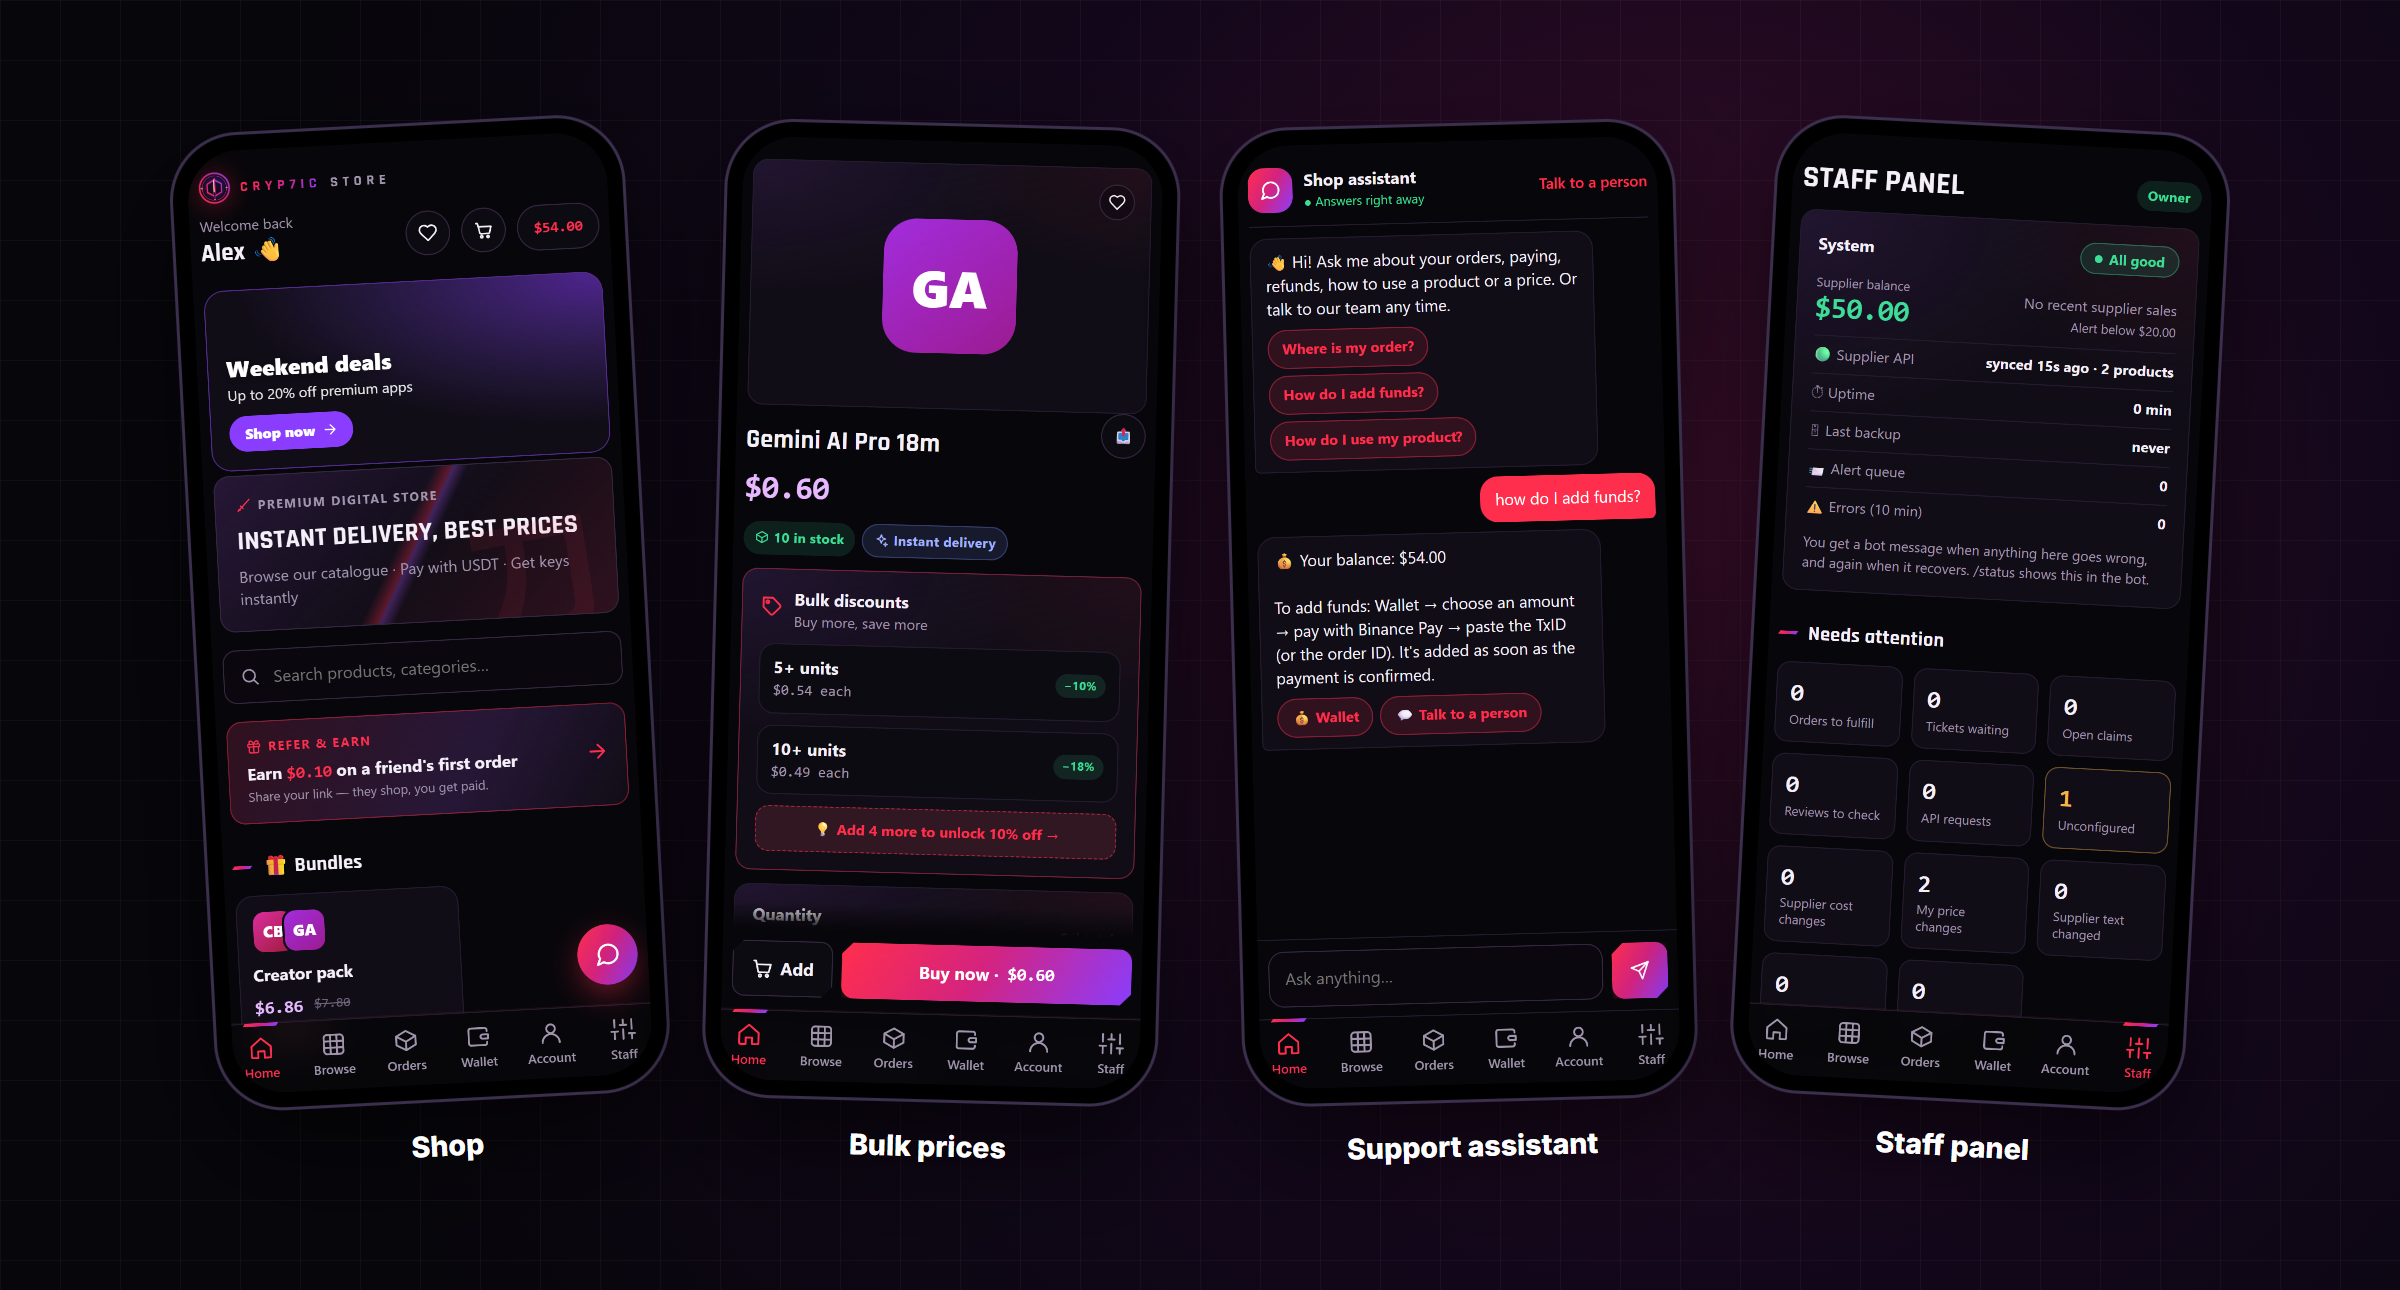
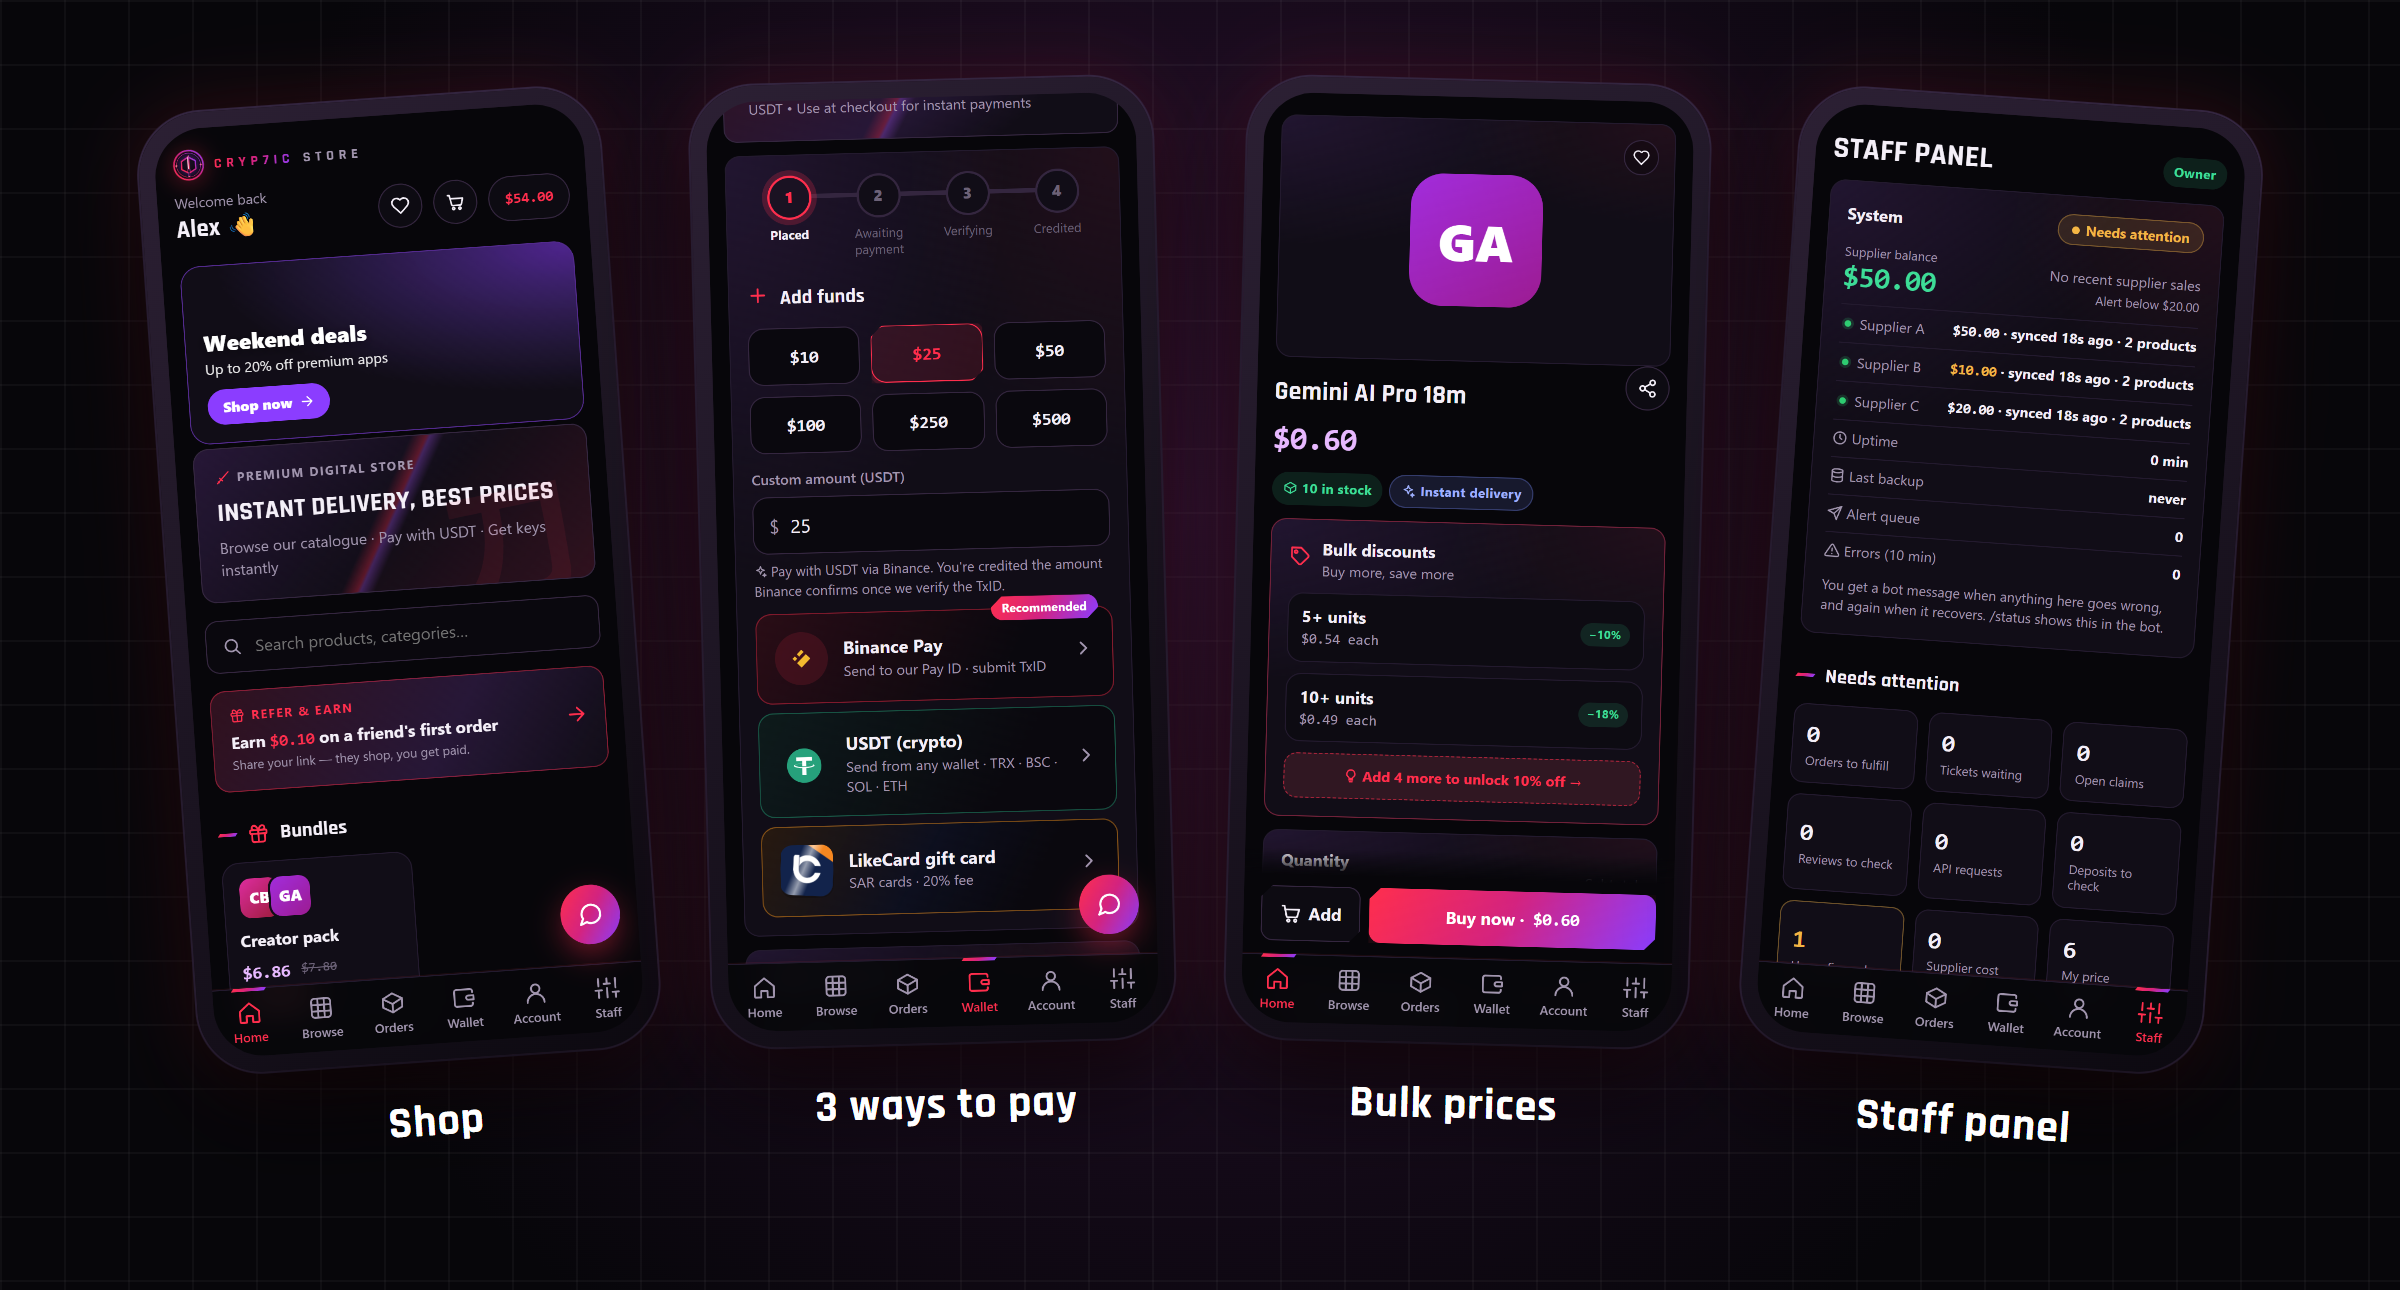
Showcase: three ways to pay, Arabic AI translations, SEO, TikTok posts, staff panel in the app, plans; fresh screenshots (sample data)

Changed region(s): [[0.0312, 0.062, 0.9375, 0.8992], [0.1562, 0.8372, 0.2188, 0.8992], [0.4062, 0.031, 0.4375, 0.062]]

diff --git a/README.md b/README.md
@@ -9,21 +9,21 @@
 
 <p align="center">
   <img alt="Telegram bot" src="https://img.shields.io/badge/Telegram-bot_+_Mini_App-26A5E4?logo=telegram&logoColor=white">
-  <img alt="Binance Pay" src="https://img.shields.io/badge/Binance_Pay-USDT-F0B90B?logo=binance&logoColor=white">
+  <img alt="Payments" src="https://img.shields.io/badge/pay-Binance_Pay_·_USDT_·_gift_cards-F0B90B?logo=binance&logoColor=white">
   <img alt="Android" src="https://img.shields.io/badge/Android-Flutter_app-02569B?logo=flutter&logoColor=white">
-  <img alt="Tests" src="https://img.shields.io/badge/tests-1600%2B_checks-3ddc97">
+  <img alt="Tests" src="https://img.shields.io/badge/tests-2150%2B_checks-3ddc97">
   <img alt="Languages" src="https://img.shields.io/badge/i18n-English_%7C_Arabic-c9a7ff">
 </p>
 
 **Cryp7ic Store** is a production platform for selling digital subscriptions and keys with instant,
 automatic delivery. It runs as a Telegram bot, a Telegram Mini App, a website and an Android app,
-all on one back end, with a Binance Pay wallet built in.
+all on one back end, with a wallet that takes Binance Pay, USDT and gift cards.
 
 **This repo is a showcase.** The source is private. The platform is available to businesses as a
 white-label store.
 
 <p align="center">
-  <img src="images/showcase.png" alt="Shop, bulk prices, support assistant and staff panel" width="100%">
+  <img src="images/showcase.png" alt="Shop, three ways to pay, bulk prices and the staff panel" width="100%">
 </p>
 
 ---
@@ -34,10 +34,14 @@ Sell digital products under **your own brand** without building anything.
 
 - 🤖 **Your own Telegram bot store** on your own subdomain, with your name, logo and prices
 - 📦 **Ready catalogue** from connected suppliers, delivered automatically to your customers
-- 💰 **Wallet and Binance Pay (USDT)** built in, with every payment verified
-- 🛠 **Staff panel** for orders, stock, tickets and broadcasts
-- 🌍 **English and Arabic** out of the box
+- 💰 **Wallet with three ways to pay**: Binance Pay, USDT on TRC20 / BEP20 / Solana / Ethereum, and gift cards — every payment verified
+- 🛠 **Staff panel** on the web and in the Android app, for orders, stock, tickets and broadcasts
+- 🌍 **English and Arabic**, with product texts translated to Arabic automatically
+- 📈 **Found on Google and TikTok**: product pages, Google Shopping feed, and auto-made TikTok posts
 - 🔌 **Reseller REST API with webhooks** if you'd rather plug into your own system
+
+Plans decide which features each store gets (own products, the shared catalogue, bundles, posts, ads,
+the assistant, AI translations, USDT, SEO & Google, TikTok), so you can start small and grow.
 
 <p align="center">
   <a href="https://t.me/EXModder"><b>Message @EXModder on Telegram to get started →</b></a><br>
@@ -51,20 +55,38 @@ Sell digital products under **your own brand** without building anything.
 | | |
 |---|---|
 | ⚡ **Delivery** | Codes delivered from stock or supplier APIs in seconds, with automatic refunds when anything fails |
-| 💰 **Wallet** | Binance Pay deposits verified through the Binance API, a full ledger, referrals and VIP levels |
-| 🛍 **Shop** | Categories, search, bulk-price tiers, bundles, flash deals and coupons |
+| 💰 **Wallet** | Binance Pay, USDT deposit addresses on four networks (matched automatically, confirmed on-chain) and gift cards; a full ledger, referrals and VIP cashback levels |
+| 🛍 **Shop** | Categories, brand pages, search, bulk-price tiers, bundles, flash deals, pinned products and coupons |
+| 🌍 **Two languages** | Every screen in English and Arabic; product names and descriptions translated to Arabic by AI, checked before use, and editable by staff |
 | 💬 **Support** | A built-in English/Arabic assistant that answers from the customer's own orders, plus tickets and warranty claims |
-| 📣 **Marketing** | Post composer with templates, targeted broadcasts, welcome and win-back offers |
-| 🔔 **Alerts** | Back-in-stock, price drops and new products, sent to customers and channels |
-| 🛡 **Operations** | Staff roles, audit log, health monitoring, daily backups with weekly restore drills |
+| 📣 **Marketing** | Post composer with templates, scheduled announcements, targeted broadcasts, welcome and win-back offers |
+| 🎵 **TikTok** | Photo posts made by the shop in its own look: a hook slide, one slide per product with its price, a call to action; AI writes the caption and hashtags |
+| 🔎 **SEO** | Public product and brand pages with structured data, sitemap, Google Shopping feed, IndexNow, Search Console and a weekly SEO report |
+| 🔔 **Alerts** | Back-in-stock, price drops and new products for customers and channels; new-customer alerts for staff |
+| 📱 **Android app** | The full shop, plus the staff panel behind the phone's fingerprint and a sign-in confirmation |
+| 🛡 **Security** | Staff sign-ins from the web or the app confirmed in Telegram (or by email), roles, audit log, suspicious-activity alerts |
+| 🧰 **Operations** | Health monitoring, daily backups with weekly restore drills, 2,150+ automated checks |
 
 <p align="center">
-  <img src="images/screens/home.png" width="16%" alt="Home">
-  <img src="images/screens/product.png" width="16%" alt="Product">
-  <img src="images/screens/bundle.png" width="16%" alt="Bundle">
-  <img src="images/screens/chat.png" width="16%" alt="Assistant">
-  <img src="images/screens/composer.png" width="16%" alt="Post composer">
-  <img src="images/screens/staff.png" width="16%" alt="Staff panel">
+  <img src="images/screens/home.png" width="12%" alt="Home">
+  <img src="images/screens/product.png" width="12%" alt="Product">
+  <img src="images/screens/bundle.png" width="12%" alt="Bundle">
+  <img src="images/screens/wallet.png" width="12%" alt="Ways to pay">
+  <img src="images/screens/chat.png" width="12%" alt="Assistant">
+  <img src="images/screens/composer.png" width="12%" alt="Post composer">
+  <img src="images/screens/translations.png" width="12%" alt="Arabic translations">
+  <img src="images/screens/staff.png" width="12%" alt="Staff panel">
+</p>
+
+### 🎵 Made for TikTok, automatically
+
+Pick products, tap "Write it for me", post. The pictures are drawn by the shop in its own look.
+
+<p align="center">
+  <img src="images/tiktok/1-hook.jpg" width="22%" alt="Hook slide">
+  <img src="images/tiktok/2-product.jpg" width="22%" alt="Product slide">
+  <img src="images/tiktok/3-product-ar.jpg" width="22%" alt="Product slide in Arabic">
+  <img src="images/tiktok/4-cta.jpg" width="22%" alt="Call-to-action slide">
 </p>
 
 <p align="center">
@@ -85,9 +107,10 @@ Sell digital products under **your own brand** without building anything.
 
 - بوت تيليجرام خاص بمتجرك على نطاق فرعي خاص بك
 - تسليم فوري وتلقائي للأكواد والاشتراكات
-- محفظة ودفع عبر Binance Pay (USDT)
-- لوحة تحكم للطلبات والمخزون والدعم
-- يدعم العربية والإنجليزية
+- محفظة بثلاث طرق دفع: Binance Pay، و USDT على أربع شبكات، وبطاقات الهدايا
+- لوحة تحكم للطلبات والمخزون والدعم، على الموقع وفي تطبيق Android
+- العربية والإنجليزية، مع ترجمة تلقائية لنصوص المنتجات إلى العربية
+- يظهر في Google و تيك توك: صفحات منتجات، وتغذية Google Shopping، ومنشورات تيك توك جاهزة
 
 **تواصل معنا على تيليجرام: [@EXModder](https://t.me/EXModder)**
 
